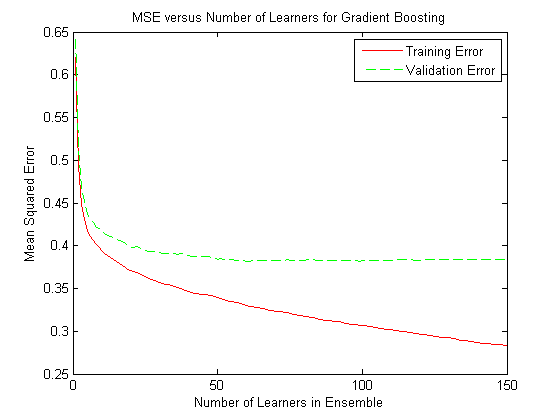
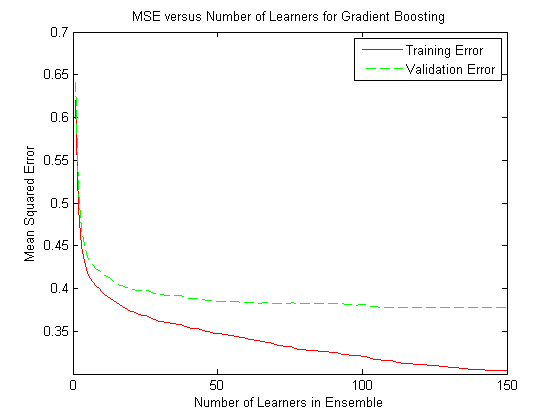
put in grad boosting results

diff --git a/zach/writeUpZach.tex b/zach/writeUpZach.tex
@@ -74,10 +74,11 @@ In the end, the best validation error occcured with minParent equal to 512 and t
 
 \section*{Gradient Boosting}
 
-\begin{figure}[h]
+For Gradient Boosting, the goal is to combine together weak decision trees by boosting each one based on the residual errors from the previous tree. In order to reduce the complexity of an individual tree, I set the maxDepth to 3 and the minParent to 512. I wanted to see how increasing the number of boosted learners affects the training and validation MSE. As it turns out, after about 50 learners, the training error does decrease but the validation error stays relatively constant. This suggests that even though it has started fitting to the data at that point, it is not very dramatic overfitting. After retraining on all the training data, using 150 boosted learners, and submitting the results to Kaggle, the MSE was 0.61388. Boosting weak learners did achieve better results than using a single very stong learner. \\
+\begin{figure}[h!]
 \centering
 \includegraphics[width=4 in]{numGradBoostsVersusMSE.png}
-\caption{MaxDepth Versus MSE}
+\caption{Gradient Boosting Versus MSE}
 \end{figure}
 
 \section*{Random Forests}

diff --git a/zach/init.m b/zach/init.m
@@ -111,7 +111,6 @@ makeKagglePrediction(predictY);
 [~,mseTraining,mseValidation] = ...
     doGradientBoosting(Xtrain,Xvalid,Ytrain,Yvalid,150);
 
-%%
 plot(mseTraining,'r-');
 hold on
 plot(mseValidation,'g--');
@@ -124,6 +123,6 @@ title('MSE versus Number of Learners for Gradient Boosting');
 
 %train on all the test data
 [predictY,~,~] = ...
-    doGradientBoosting(Xtr,Xte,Ytr,0,100);
+    doGradientBoosting(Xtr,Xte,Ytr,0,150);
 
 makeKagglePrediction(predictY);

diff --git a/zach/doGradientBoosting.m b/zach/doGradientBoosting.m
@@ -18,7 +18,7 @@ curY = 0;
 for k=1:N,
  
  grad = 2*(curY - Ytrain);
- dt{k} = treeRegress(Xtrain,grad,'maxDepth',maxTreeDepth);
+ dt{k} = treeRegress(Xtrain,grad,'maxDepth',maxTreeDepth,'minParent',512);
  curY = curY - alpha(k) * predict(dt{k}, Xtrain);
  
  %find training MSE at k
